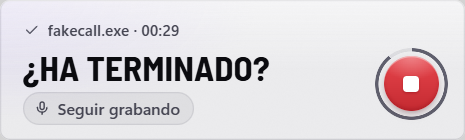
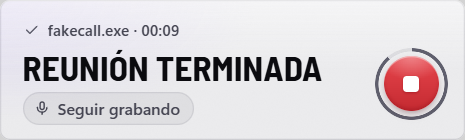
Popup: tests de regresion de A, sin re-presentar un popup respondido; «Reunion terminada»
- _verify_popup no vuelve a mostrar un popup que se esta yendo (respondido, retirado) ni al
  salir: la prueba real de recrear la GUI lo destapo (evaluate_js sobre una ventana cerrada).
- Tests: popup invisible tras show se re-presenta; arranque oculta overlays visibles y conserva
  los que estan en uso; un popup respondido o con la app saliendo no se re-presenta.
- UiHost.run: si recrear la GUI falla, se sale con el motivo en el log.
- Popup de fin confirmado: «Reunion terminada» (como se pidio); ayudas de end_confirm_s/end_after_s.
- Docs: reglas de state_machine al dia; DECISIONS §18.7 sin sobreafirmar la causa de la salida;
  MIC-02 parcial (fallo real no reproducido). Captura de la GUI recreada con WebView2 real.

Changed region(s): [[0.0301, 0.3429, 0.6925, 0.6286], [0.3312, 0.1714, 0.3914, 0.2571]]

diff --git a/micnaga/ui/host.py b/micnaga/ui/host.py
@@ -170,6 +170,7 @@ class UiHost:
         self._popup_rect: Rect | None = None
         self._popup_mon: winapi.MonitorInfo | None = None
         self._popup_shown_at = 0.0
+        self._popup_leaving = False  # respondido / retirado: la comprobacion no lo re-presenta
         self._popup_on_timeout = "provisional"
         self._popup_total_s = 15.0
         self._popup_state_provider: Callable[[], tuple[float, bool] | None] | None = None
@@ -206,10 +207,18 @@ class UiHost:
         first = True
         while True:
             self._create_overlays()
-            self._factory.start(
-                functools.partial(self._bootstrap, on_ready if first else None, first=first),
-                icon=ICO_PATH,
-            )
+            try:
+                self._factory.start(
+                    functools.partial(self._bootstrap, on_ready if first else None, first=first),
+                    icon=ICO_PATH,
+                )
+            except Exception as exc:
+                if first:
+                    raise
+                # recrear la GUI fallo: se sale, con el motivo en el log (no hay ventanas)
+                log.exception("could not restart the GUI loop")
+                self.exit_reason = f"gui_restart_failed ({exc.__class__.__name__})"
+                break
             if not self._loop_ended():
                 break
             first = False
@@ -515,6 +524,7 @@ class UiHost:
             self._popup_state = "showing"
             self._popup_rect, self._popup_mon = rect, mon
             self._popup_shown_at = time.monotonic()
+            self._popup_leaving = False
             self._popup_on_timeout = str(payload["onTimeout"])
             self._popup_total_s = float(
                 countdown_total_s if countdown_total_s is not None else timeout_value
@@ -546,7 +556,13 @@ class UiHost:
         puso) se vuelve a colocar, a pintar y a mostrar, y se deja constancia en el log."""
         win = self._popup
         with self._lock:
-            if win is None or self._popup_state != "showing" or self._popup_shown_at != shown_at:
+            if (
+                win is None
+                or self._popup_state != "showing"
+                or self._popup_shown_at != shown_at
+                or self._popup_leaving
+                or self._stopping.is_set()
+            ):
                 return True
             rect = self._popup_rect
         visible = win.is_visible()
@@ -576,7 +592,7 @@ class UiHost:
         monitor_hint: MonitorHint = None,
         countdown_total_s: float = 10.0,
     ) -> None:
-        """«¿Ha terminado?» (Terminar / Seguir grabando) o «¿La guardo?» (Guardar / Descartar).
+        """«Reunión terminada» (Terminar / Seguir grabando) o «¿La guardo?» (Guardar / Descartar).
 
         Mismo cristal y ventana que el popup; la cuenta atras la lleva el vigilante."""
         win = self._popup
@@ -595,6 +611,7 @@ class UiHost:
             self._popup_mode = "end"
             self._popup_rect, self._popup_mon = rect, mon
             self._popup_shown_at = time.monotonic()
+            self._popup_leaving = False
             self._popup_total_s = float(countdown_total_s)
             self._popup_script = f"micnaga.popup.showEnd({json.dumps(payload)})"
         self._present_popup(win, rect)
@@ -605,10 +622,12 @@ class UiHost:
         with self._lock:
             if win is None or self._popup_state != "showing" or self._popup_mode != "end":
                 return
+        self._popup_leaving = True
         win.run_js(f"micnaga.popup.endClose({json.dumps(reason)})")
         threading.Timer(0.6, lambda: self.handle_popup_closed("fading")).start()
 
     def handle_end_decide(self, choice: str) -> None:
+        self._popup_leaving = True
         self._cb.on_end_decision(choice)  # type: ignore[arg-type]
 
     # ================================================================= «Descartada · Deshacer»
@@ -664,6 +683,7 @@ class UiHost:
         with self._lock:
             if win is None or self._popup_state != "showing":
                 return
+        self._popup_leaving = True
         win.run_js("micnaga.popup.end()")
         # red de seguridad: si el JS no contesta, se oculta igualmente
         threading.Timer(0.6, lambda: self.handle_popup_closed("fading")).start()
@@ -713,6 +733,7 @@ class UiHost:
 
     # -- eventos del JS (PopupApi)
     def handle_popup_decide(self, decision: str) -> None:
+        self._popup_leaving = True
         if decision == "record":
             self._pill.provisional = False
         elif decision == "timeout" and self._popup_on_timeout == "provisional":

diff --git a/tests/ui/test_host.py b/tests/ui/test_host.py
@@ -444,3 +444,82 @@ def test_show_popup_before_run_is_a_clear_error() -> None:
     )
     with pytest.raises(RuntimeError, match="run"):
         host.show_popup("x")
+
+
+# ------------------------------------------------- regresion A: el popup no salia en uso real
+
+
+class _StubbornWindow(FakeWindow):
+    """El primer ``show`` no deja la ventana visible (como un WebView2 que no se pinta)."""
+
+    def __init__(self, *a: Any, **kw: Any) -> None:
+        super().__init__(*a, **kw)
+        self.shows = 0
+
+    def show(self, *, activate: bool) -> None:
+        self.shows += 1
+        self.log.append(("show", activate))
+        self.visible = self.shows > 1
+
+
+def test_popup_that_is_not_visible_after_show_is_presented_again() -> None:
+    r = Rig()
+    pop = _StubbornWindow(r.popup.spec, r.popup.hwnd)
+    r.host._popup = pop
+    r.host.show_popup("Reunión", "abc-defg-hij")
+    assert not pop.visible
+    shown_at = r.host._popup_shown_at
+    assert r.host._verify_popup(shown_at) is False  # lo detecta y lo vuelve a presentar
+    assert pop.visible and pop.shows == 2
+    assert sum(1 for js in pop.js_calls() if js.startswith("micnaga.popup.show(")) == 2
+    assert r.host._verify_popup(shown_at) is True
+
+
+def test_verify_ignores_a_popup_that_was_already_answered() -> None:
+    r = Rig()
+    pop = _StubbornWindow(r.popup.spec, r.popup.hwnd)
+    r.host._popup = pop
+    r.host.show_popup("Reunión")
+    shown_at = r.host._popup_shown_at
+    r.host.handle_popup_closed("leaving")  # el JS avisa de que la tarjeta se fue
+    assert r.host._verify_popup(shown_at) is True and pop.shows == 1
+
+
+def test_bootstrap_hides_overlays_that_navigation_made_visible() -> None:
+    """pywebview (edgechromium) hace ``form.Show()`` al navegar una ventana transparente aunque
+    se creara oculta: al arrancar quedaban una tarjeta vacia y una pastilla visibles."""
+    r = Rig()
+    r.host._want_tray = False
+    r.popup.visible = r.pill.visible = True
+    r.host._bootstrap(None)
+    assert not r.popup.visible and not r.pill.visible
+    r.host._stopping.set()
+
+
+def test_bootstrap_keeps_an_overlay_that_is_in_use() -> None:
+    r = Rig()
+    r.host._want_tray = False
+    r.host.show_pill(elapsed_s=5.0)
+    assert r.pill.visible
+    r.host._bootstrap(None)
+    assert r.pill.visible
+    r.host._stopping.set()
+
+
+def test_verify_does_not_re_present_an_answered_or_quitting_popup() -> None:
+    for finish in ("answer", "end_answer", "quit"):
+        r = Rig()
+        pop = _StubbornWindow(r.popup.spec, r.popup.hwnd)
+        r.host._popup = pop
+        if finish == "end_answer":
+            r.host.show_end_popup("Reunión", duration_s=60.0, confirmed=True)
+            r.host.handle_end_decide("finish")
+        else:
+            r.host.show_popup("Reunión")
+            if finish == "answer":
+                r.host.handle_popup_decide("record")
+            else:
+                r.host._stopping.set()
+        # la tarjeta se esta yendo (o la app sale): la comprobacion no la vuelve a mostrar
+        assert r.host._verify_popup(r.host._popup_shown_at) is True, finish
+        assert pop.shows == 1, finish

diff --git a/micnaga/watcher/machine.py b/micnaga/watcher/machine.py
@@ -16,7 +16,7 @@ Flujo (decide el usuario; DECISIONS §18, ``docs/state_machine.md``):
   aparta en «Descartadas» (recuperable N dias, nunca se borra al momento). Sin respuesta -> el
   popup se convierte en la pastilla provisional (con «¿Guardar?») y se decide al final.
 * **Fin**: la app suelta el micro ``end_confirm_s`` seguidos -> se anota el punto de recorte y
-  sale el popup de fin: confirmada «¿Ha terminado?» (Terminar / Seguir grabando; sin respuesta
+  sale el popup de fin: confirmada «Reunión terminada» (Terminar / Seguir grabando; sin respuesta
   en ``end_popup_timeout_s`` termina), sin confirmar «¿La guardo?» (Guardar / Descartar; sin
   respuesta se aparta sin transcribir). Si el micro vuelve antes de contestar, el popup de fin se
   retira y la grabacion sigue como estaba.
@@ -192,7 +192,7 @@ class ClearEnd:
 
 @dataclass(frozen=True)
 class ShowEndPopup:
-    confirmed: bool  # True: «¿Ha terminado?»; False: «¿La guardo?»
+    confirmed: bool  # True: «Reunión terminada»; False: «¿La guardo?»
     title: str | None
     monitor_hint: MonitorHint | None
     timeout_s: float

diff --git a/tests/app/test_flows.py b/tests/app/test_flows.py
@@ -65,7 +65,7 @@ def test_meet_path_popup_record_stop_enqueues_confirmed_job() -> None:
     assert json.loads(payload[len("micnaga.pill.show(") : -1])["elapsed"] == rig.rec.elapsed
     assert rig.watcher.state is WatcherState.RECORDING_CONFIRMED  # type: ignore[union-attr]
 
-    rig.feed(OFF, 3)  # cuelga: el micro se suelta 2 s -> popup de fin «¿Ha terminado?»
+    rig.feed(OFF, 3)  # cuelga: el micro se suelta 2 s -> popup de fin «Reunión terminada»
     assert rig.watcher.state is WatcherState.END_PROMPT  # type: ignore[union-attr]
     assert _end_popup(rig)["confirmed"] is True
     assert rig.popup.visible

diff --git a/micnaga/watcher/controller.py b/micnaga/watcher/controller.py
@@ -105,7 +105,7 @@ class WatcherController(Protocol):
         monitor_hint: MonitorHint | None,
         timeout_s: float,
     ) -> None:
-        """Popup de fin: «¿Ha terminado?» (confirmada) o «¿La guardo?» (sin confirmar)."""
+        """Popup de fin: «Reunión terminada» (confirmada) o «¿La guardo?» (sin confirmar)."""
         ...
 
     def close_end_popup(self, *, reason: EndCloseReason) -> None: ...

diff --git a/tests/watcher/test_machine.py b/tests/watcher/test_machine.py
@@ -58,7 +58,7 @@ from tests.watcher.helpers import (
 
 MEETING_A = MeetingInfo.from_tab(tab())
 END_ASK_A = ShowEndPopup(False, None, MONITOR, 10.0)  # «¿La guardo?»
-END_DONE_A = ShowEndPopup(True, None, MONITOR, 10.0)  # «¿Ha terminado?»
+END_DONE_A = ShowEndPopup(True, None, MONITOR, 10.0)  # «Reunión terminada»
 
 
 def popup_session(sim: Sim) -> None:

diff --git a/docs/state_machine.md b/docs/state_machine.md
@@ -22,7 +22,7 @@ observable (para el icono de bandeja y el diagnóstico); `.phase` devuelve la fa
 | `PROMPTING` | Popup «¿Estás en una reu?» visible **y** grabación provisional en marcha. | rojo |
 | `RECORDING_CONFIRMED` | «Sí» (o «Grabar ahora»). Solo exige la duración mínima (`gates.min_duration_s`, 30 s). | rojo |
 | `RECORDING_PROVISIONAL` | El popup caducó sin respuesta: se sigue grabando; la pastilla ofrece «¿Guardar?». Se decide al final. | rojo |
-| `END_PROMPT` | El micro se soltó `end_confirm_s` (2 s): popup de fin. Confirmada: «¿Ha terminado?» (Terminar / Seguir grabando; sin respuesta en `end_popup_timeout_s` = 10 s, termina). Sin confirmar: «¿La guardo?» (Guardar / Descartar; sin respuesta, se aparta). La grabación sigue mientras tanto y luego se recorta al momento en que se soltó el micro. | rojo |
+| `END_PROMPT` | El micro se soltó `end_confirm_s` (2 s): popup de fin. Confirmada: «Reunión terminada» (Terminar / Seguir grabando; sin respuesta en `end_popup_timeout_s` = 10 s, termina). Sin confirmar: «¿La guardo?» (Guardar / Descartar; sin respuesta, se aparta). La grabación sigue mientras tanto y luego se recorta al momento en que se soltó el micro. | rojo |
 | `DISCARD_PENDING` | Tras un «No»/«Descartar»: la grabación está en pausa (nada se graba) y la pastilla muestra «Descartada · Deshacer» durante `undo_s` (8 s). Sin deshacer → `_descartadas`. | rojo |
 | `SUSPENDED` | «Pausar vigilancia 1 h». No se evalúan señales. | gris |
 | `PAUSED` *(solapamiento)* | Pausa privada activa sobre `PROMPTING` / `RECORDING_*`. | ámbar |
@@ -103,12 +103,14 @@ compuertas: la etapa 1 del pipeline aparta (no borra) lo que no las pasa.
   Meet (un Meet en Edge con el micro en Chrome no cuenta).
 * **Estable 5 s** = `now - primer_tick_con_ambas >= confirm_after_s`; cualquier caída en
   `CANDIDATE` reinicia la cuenta (los parpadeos no disparan).
-* **Fin**: `now - primer_tick_sin_señal >= end_after_s`, con reinicio si la señal vuelve (un
-  parpadeo de 10 s no termina la sesión). Con sondeo a 1 s, 15 s «seguidos» equivalen a 16 ticks.
+* **Fin**: `now - primer_tick_sin_señal >= end_confirm_s` (2 s) abre el popup de fin (no cierra
+  nada todavía); si la señal vuelve antes de responder, el popup se retira y se sigue grabando. El
+  vigilante pasa a ticks de 0,25 s mientras hay popup de fin o «Deshacer». `end_after_s` (15 s)
+  solo sirve para olvidar lo ignorado.
 * **Identidad pegajosa**: la sesión es *de su código*; otra pestaña de Meet no la mantiene viva.
   Si la sesión empezó sin código (título «Meet: Revisión semanal») la identidad es débil: vale
   cualquier Meet sin código, y si aparece uno con código, se adopta (lobby → llamada).
-* **Claves de ignorado**: `código` o `nocode:<navegador>` (Meet) y `app:<exe o paquete>` (genérica). Un «Ahora no» sobre un navegador ignora **ambas** (`código` y `app:<navegador>`), para que la ruta genérica no vuelva a disparar con ese mismo uso del micro. Las claves de app envejecen igual: se olvidan cuando la app suelta el micro `end_after_s`; un corte menor no las olvida.
+* **Claves de ignorado**: `código` o `nocode:<navegador>` (Meet) y `app:<exe o paquete>` (genérica). Un «No» sobre un navegador ignora **ambas** (`código` y `app:<navegador>`), para que la ruta genérica no vuelva a disparar con ese mismo uso del micro. Las claves de app envejecen igual: se olvidan cuando la app suelta el micro `end_after_s`; un corte menor no las olvida.
 * **Uso continuo**: cualquier corte del micro de una app reinicia su cuenta de `mic_grace_s`. Gana la app con más tiempo continuo; mientras hay sesión, otras apps no abren otra.
 * **Tras parar** (`user_stop`) se ignoran también todas las apps que tengan el micro en ese momento.
 * **Liveness del micro**: «en uso» exige un proceso vivo cuyo `create_time` sea anterior a `LastUsedTimeStart` (+10 s); así una entrada obsoleta (`Stop = 0` de un cuelgue) no cuenta ni tras reiniciar la app.
@@ -116,25 +118,32 @@ compuertas: la etapa 1 del pipeline aparta (no borra) lo que no las pasa.
   el título no entra en la clave porque los nombres de pestaña de UIA llevan decoraciones
   localizadas y la misma pestana saldría con dos claves) hasta colgar. «Colgar» = esa clave sin señal ≥ `end_after_s` (un parpadeo no la olvida). Un
   código distinto sí vuelve a preguntar, incluso con el ignorado aún abierto.
-* **`on_timeout = "discard"`** también ignora la reunión; si no, volvería a preguntar cada 5 s.
+* **`on_timeout = "discard"`** aparta la sesión (`unanswered`, recuperable) y también ignora la
+  reunión; si no, volvería a preguntar cada 5 s. El valor por defecto es `provisional`.
 * **Cuenta atrás del popup**: acumula tiempo solo mientras *no* haya ratón encima, *no* esté en
   pausa privada y *no* haya una señal caída. Lo último evita que el timeout (15 s) gane siempre al
   fin de reunión (15 s) y haga inalcanzable «la reunión acaba antes de responder».
-* **Parar (pastilla/tray)** vale en cualquier estado de grabación. En `PROMPTING` equivale a «Ahora
-  no». Tras parar, las reuniones aún vivas se ignoran (si no, preguntaría de nuevo a los 5 s).
-* **«Grabar ahora»**: en `PROMPTING` = «Grabar»; en `RECORDING_PROVISIONAL` confirma; en `CANDIDATE`
+* **Parar (pastilla/tray)** vale en cualquier estado de grabación. En `PROMPTING` equivale a «No»
+  (con «Deshacer»). Confirmada: se cierra y se encola. Sin confirmar: abre «¿La guardo?» (nada se
+  pierde sin un «No»). Tras parar, las reuniones aún vivas se ignoran.
+* **«Grabar ahora»**: en `PROMPTING` = «Sí»; en `RECORDING_*` provisional confirma; en
+  `END_PROMPT` = «Seguir grabando» / «Guardar»; en `DISCARD_PENDING` = «Deshacer»; en `CANDIDATE`
   o con una reunión visible adopta esa reunión (la termina la señal); sin reunión es una sesión
   **manual** que solo termina el usuario (no hay señales que la cierren) y a la que Meet no
   molesta con popups.
-* **Suspender**: en `IDLE/CANDIDATE` → `SUSPENDED` y olvida lo ignorado; en `PROMPTING` descarta el
-  popup; **grabando no interrumpe** (rige al terminar la sesión). Al expirar con las señales ya
+* **Suspender**: en `IDLE/CANDIDATE` → `SUSPENDED` y olvida lo ignorado; en `PROMPTING` retira el
+  popup y aparta la sesión (`suspended`, recuperable); **grabando no interrumpe** (rige al terminar la sesión). Al expirar con las señales ya
   activas, los 5 s de estabilidad empiezan de cero.
 * **Pausa privada** solo en `PROMPTING` / `RECORDING_*`; fuera, es un no-op. Si la reunión acaba
-  en pausa, igualmente se hace `stop_and_finalize` (el controlador cierra con la pausa activa).
+  en pausa, el cierre es el mismo (popup de fin) y el controlador cierra con la pausa activa.
 * **Títulos**: solo se toman del título de *ventana* (pestaña activa); los `TabItem` de UIA se usan
   únicamente para detectar Meet y su código. Limitación conocida: una sala sin código «ignorada»
   que pasa a tener código (lobby → llamada) cuenta como reunión nueva.
-* **Eventos tardíos** (clic en un popup que ya se cerró, hover sin popup) se ignoran.
+* **Eventos tardíos** (clic en un popup que ya se cerró, «Deshacer» caducado, hover sin popup)
+  se ignoran.
+* **Fallo al abrir la captura** (`recording_failed`): se retira lo que hubiera en pantalla, se
+  avisa con una notificación y se vuelve a vigilar (esa reunión se ignora hasta colgar; «Grabar
+  ahora» reintenta al momento).
 
 ## Interfaz del controlador
 

diff --git a/DECISIONS.md b/DECISIONS.md
@@ -621,7 +621,7 @@ le salía y una reunión sin respuesta se perdía). Diagrama y reglas: `docs/sta
    (`detection.undo_s`) y, sin deshacer, la carpeta va a `_descartadas`. Sin respuesta = sigue
    grabando en provisional (la pastilla ofrece «¿Guardar?») y se decide al final.
 2. **Popup de fin** (mismo cristal que el popup): el micro libre `detection.end_confirm_s` (2 s)
-   abre «¿Ha terminado?» (Terminar / Seguir grabando; termina solo a los
+   abre «Reunión terminada» (Terminar / Seguir grabando; termina solo a los
    `detection.end_popup_timeout_s` = 10 s) o, sin confirmar, «¿La guardo?» (Guardar / Descartar; sin
    respuesta se aparta). La grabación sigue mientras se decide y luego se **recorta** al momento en
    que se soltó el micro (`capture.json → trim_end_samples`, aplicado e idempotente en
@@ -648,8 +648,12 @@ le salía y una reunión sin respuesta se perdía). Diagrama y reglas: `docs/sta
    `setTimeout`), y una comprobación a 1,2 s de que la ventana está visible (si no, se re-presenta y
    queda en el log). Un fallo al abrir la captura ya no deja el vigilante colgado (aviso + vuelta a
    vigilar).
-7. **Salida de la app**: solo «Salir», el fin de sesión de Windows o el instalador. La salida
-   inexplicada era un Ctrl+C de la consola que llegaba al manejador SIGINT de pywebview;
-   `app.ConsoleGuard` lo ignora (y lo registra). Si el bucle de la GUI termina por cualquier otra
+7. **Salida de la app**: solo «Salir», el fin de sesión de Windows o el instalador. **Un**
+   mecanismo reproducido: con la app lanzada desde una consola, un Ctrl+C de esa consola llega al
+   manejador SIGINT de pywebview y la app sale «limpiamente»; `app.ConsoleGuard` lo ignora (y lo
+   registra). No explica todo: la app real corre con `pythonw` (sin consola) y sus reinicios del
+   19/11 no dejan ninguna línea de cierre ni evento de fallo en el visor de eventos, así que
+   murió de forma abrupta por una causa aún desconocida. Por eso `faulthandler` escribe ahora en
+   `logs/crash.log`. Si el bucle de la GUI termina por cualquier otra
    cosa se registra el motivo y se recrean las ventanas sin tocar la grabación (máx. 5 en 10 min).
    Toda salida deja `shutting down (reason: …)` en el log.

diff --git a/docs/review/verification.md b/docs/review/verification.md
@@ -6,8 +6,8 @@ en este PC; **Parcial** = comprobado en condiciones más fáciles que el criteri
 
 | Req. | Estado | Evidencia |
 | --- | --- | --- |
-| MIC-01 Detección | Verificado (cambiado) | Ruta genérica, cualquier app (`tests/watcher/*`; E2E con la UI real y `fakecall.exe`). Meet en Chrome probado en real; Edge/Brave y «< 3 s» sin medir. El popup sale a los 20 s + 20 s por diseño (petición del usuario, DECISIONS §18) |
-| MIC-02 Popup | Verificado | Ventana WebView2 real visible (`docs/screenshots/flow_02_popup.png`); comprobación de visibilidad a 1,2 s; tema claro/oscuro en `tests/ui/shots.py` |
+| MIC-01 Detección | Verificado (cambiado) | Ruta genérica, cualquier app (`tests/watcher/*`; E2E con la UI real y una fuente de señales guionizada «`fakecall.exe` tiene el micro», no el muestreador real). Meet en Chrome probado en real; Edge/Brave y «< 3 s» sin medir. El popup sale a los 20 s + 20 s por diseño (petición del usuario, DECISIONS §18) |
+| MIC-02 Popup | Parcial | El fallo real del usuario («no sale») **no se reprodujo**; hay mitigaciones con tests (`tests/ui/test_host.py`). Ventana WebView2 real con `IsWindowVisible` + captura PrintWindow (`flow_02_popup.png`), con la sesión RDP desconectada: falta que el usuario lo vea en una pantalla activa. Tema claro/oscuro en `tests/ui/shots.py` |
 | MIC-03 Dos pistas | Parcial | `tests/capture/*` (sincronía, relleno de silencios); desfase tras 1 h sin medir aquí |
 | MIC-04 Compuertas | Cambiado | Por petición del usuario, el «Sí» decide y las compuertas de voz están a 0; lo que no pasa se aparta (no se borra). `tests/pipeline/test_gates.py` mantiene los umbrales v1 |
 | MIC-05 Eco | Parcial | `docs/aec_comparison.md` (eco sintético); con altavoces reales sin medir |
@@ -32,4 +32,4 @@ Otras comprobaciones pedidas:
 * **Exclusión del pid propio**: `CaptureSessionMicSource` ignora `os.getpid()`
   (`tests/watcher/test_capture_sessions.py::test_own_process_and_excluded_apps_are_ignored`).
 * **Salida**: solo «Salir» / fin de sesión / instalador; el resto se registra y recrea la GUI
-  (`tests/ui/test_host_exit.py`).
+  (`tests/ui/test_host_exit.py`; recreación probada también con WebView2 real: `flow_09_popup_after_gui_restart.png`).
